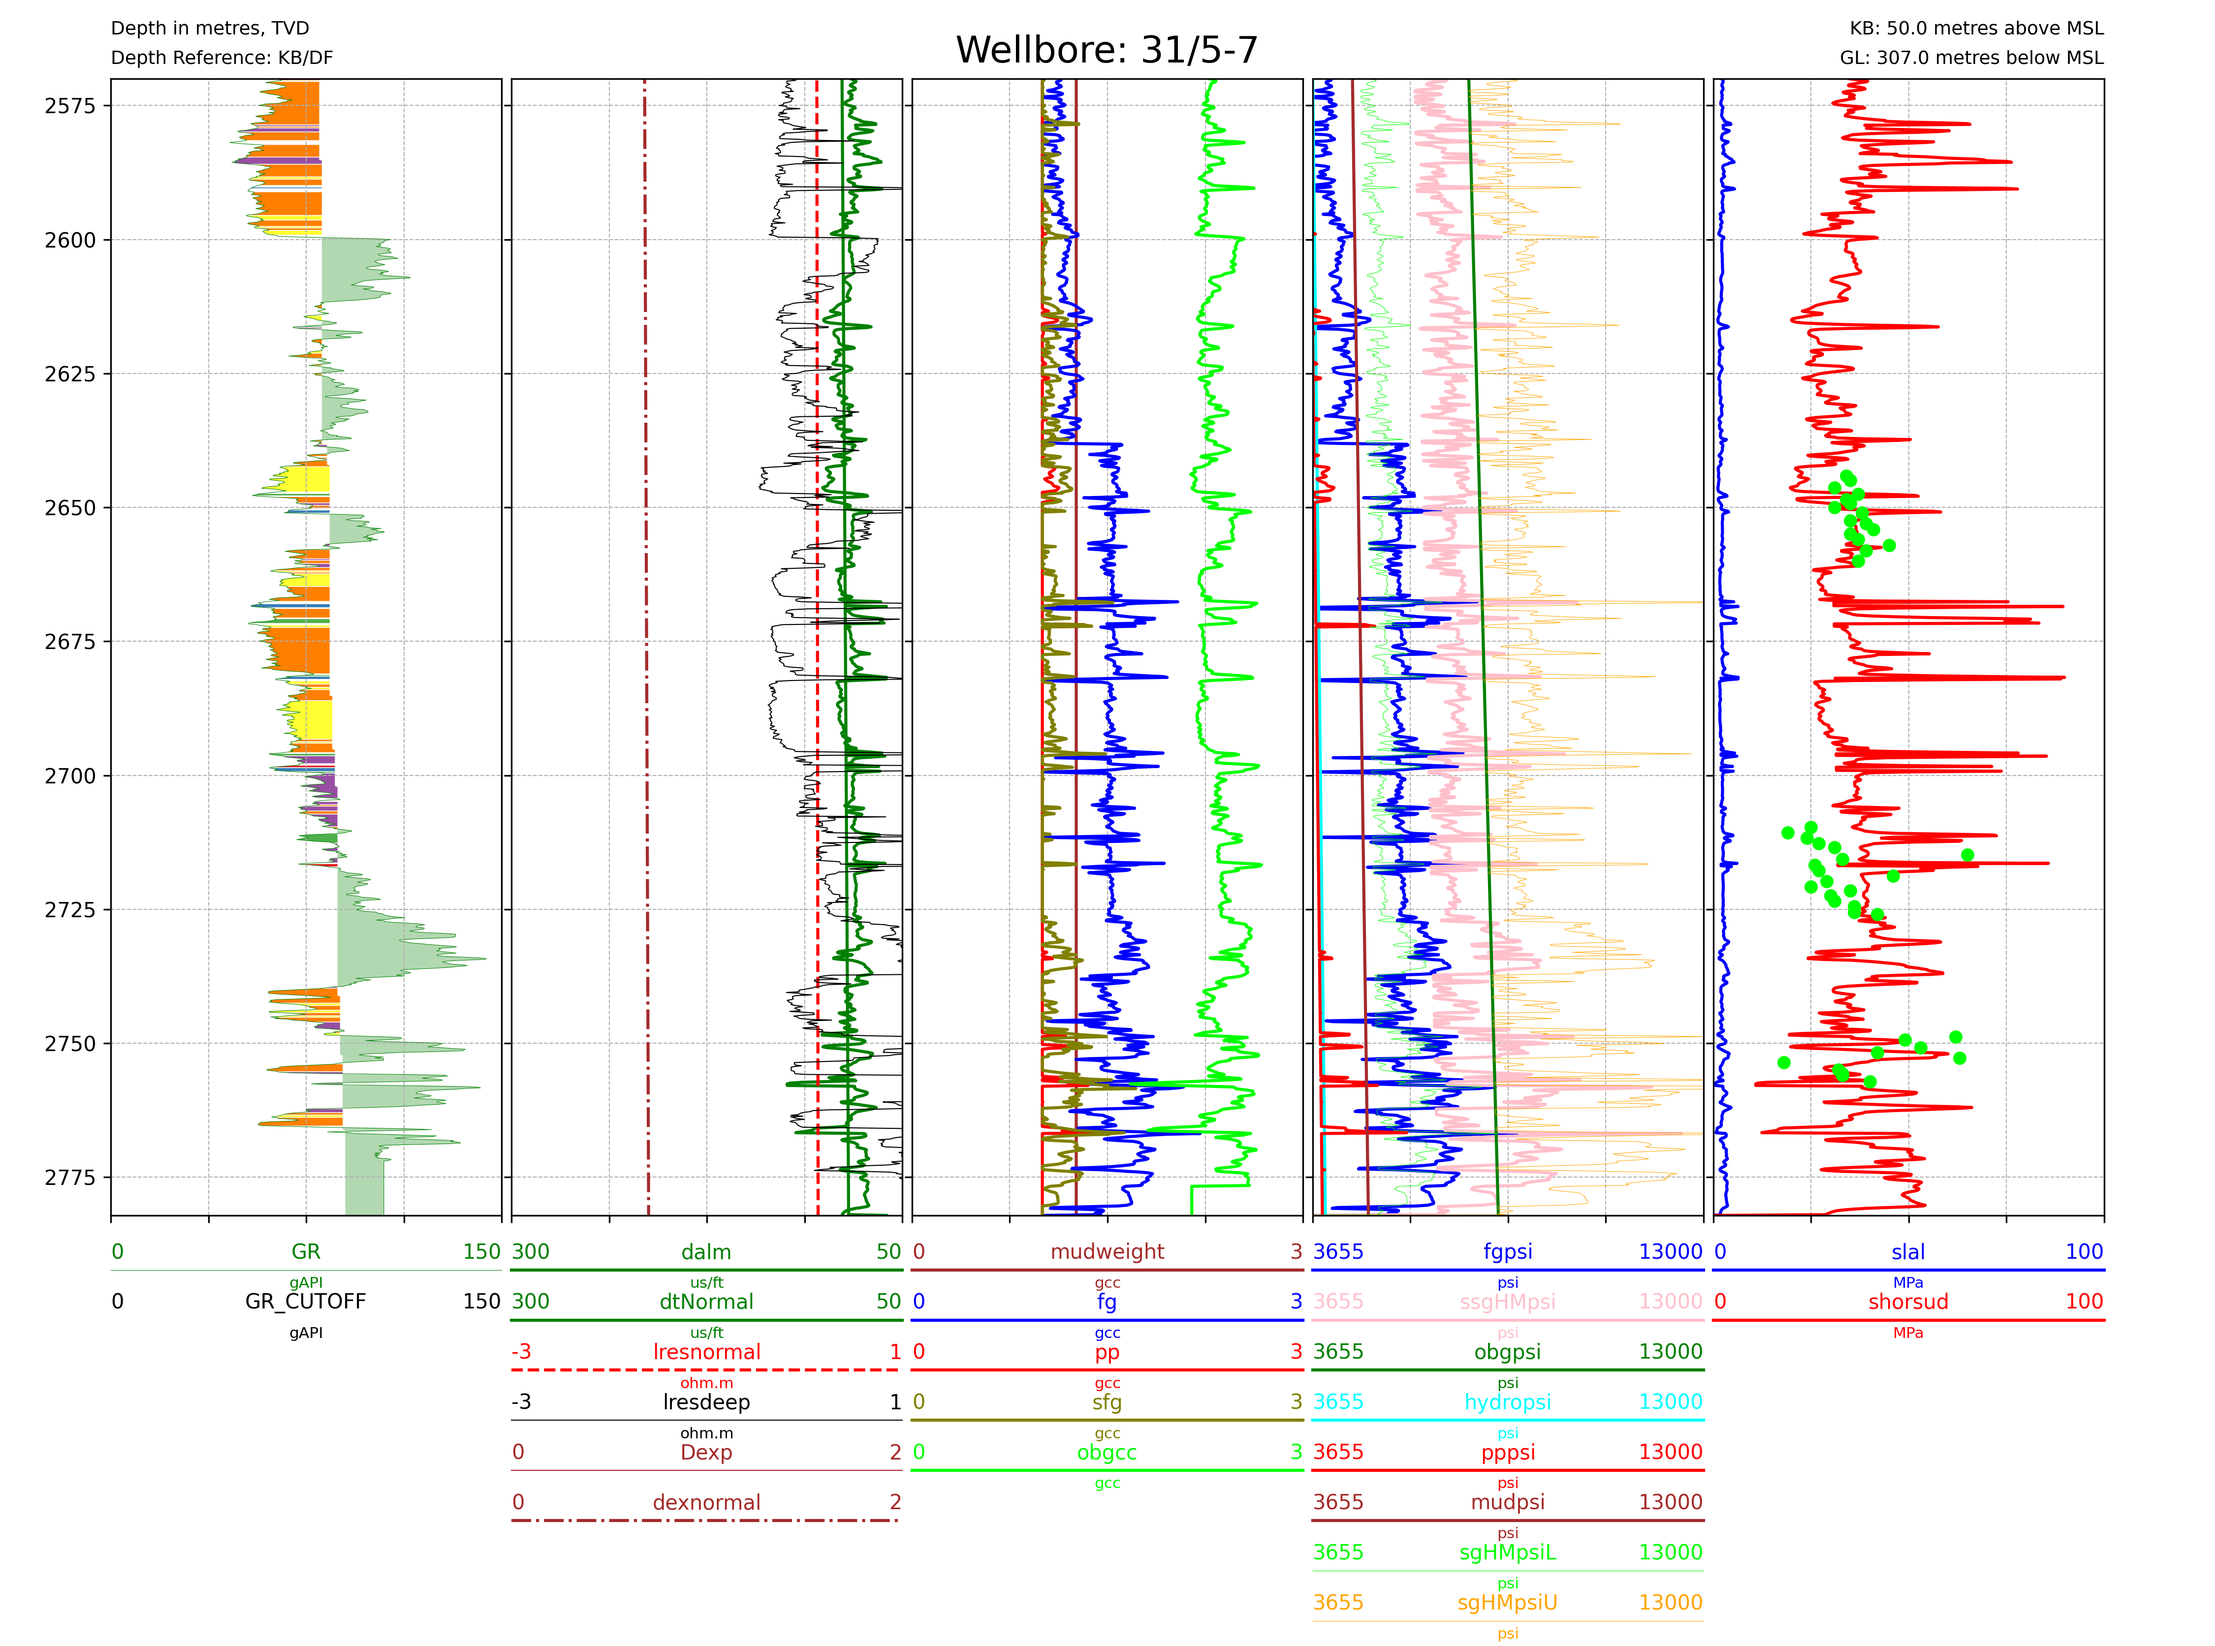
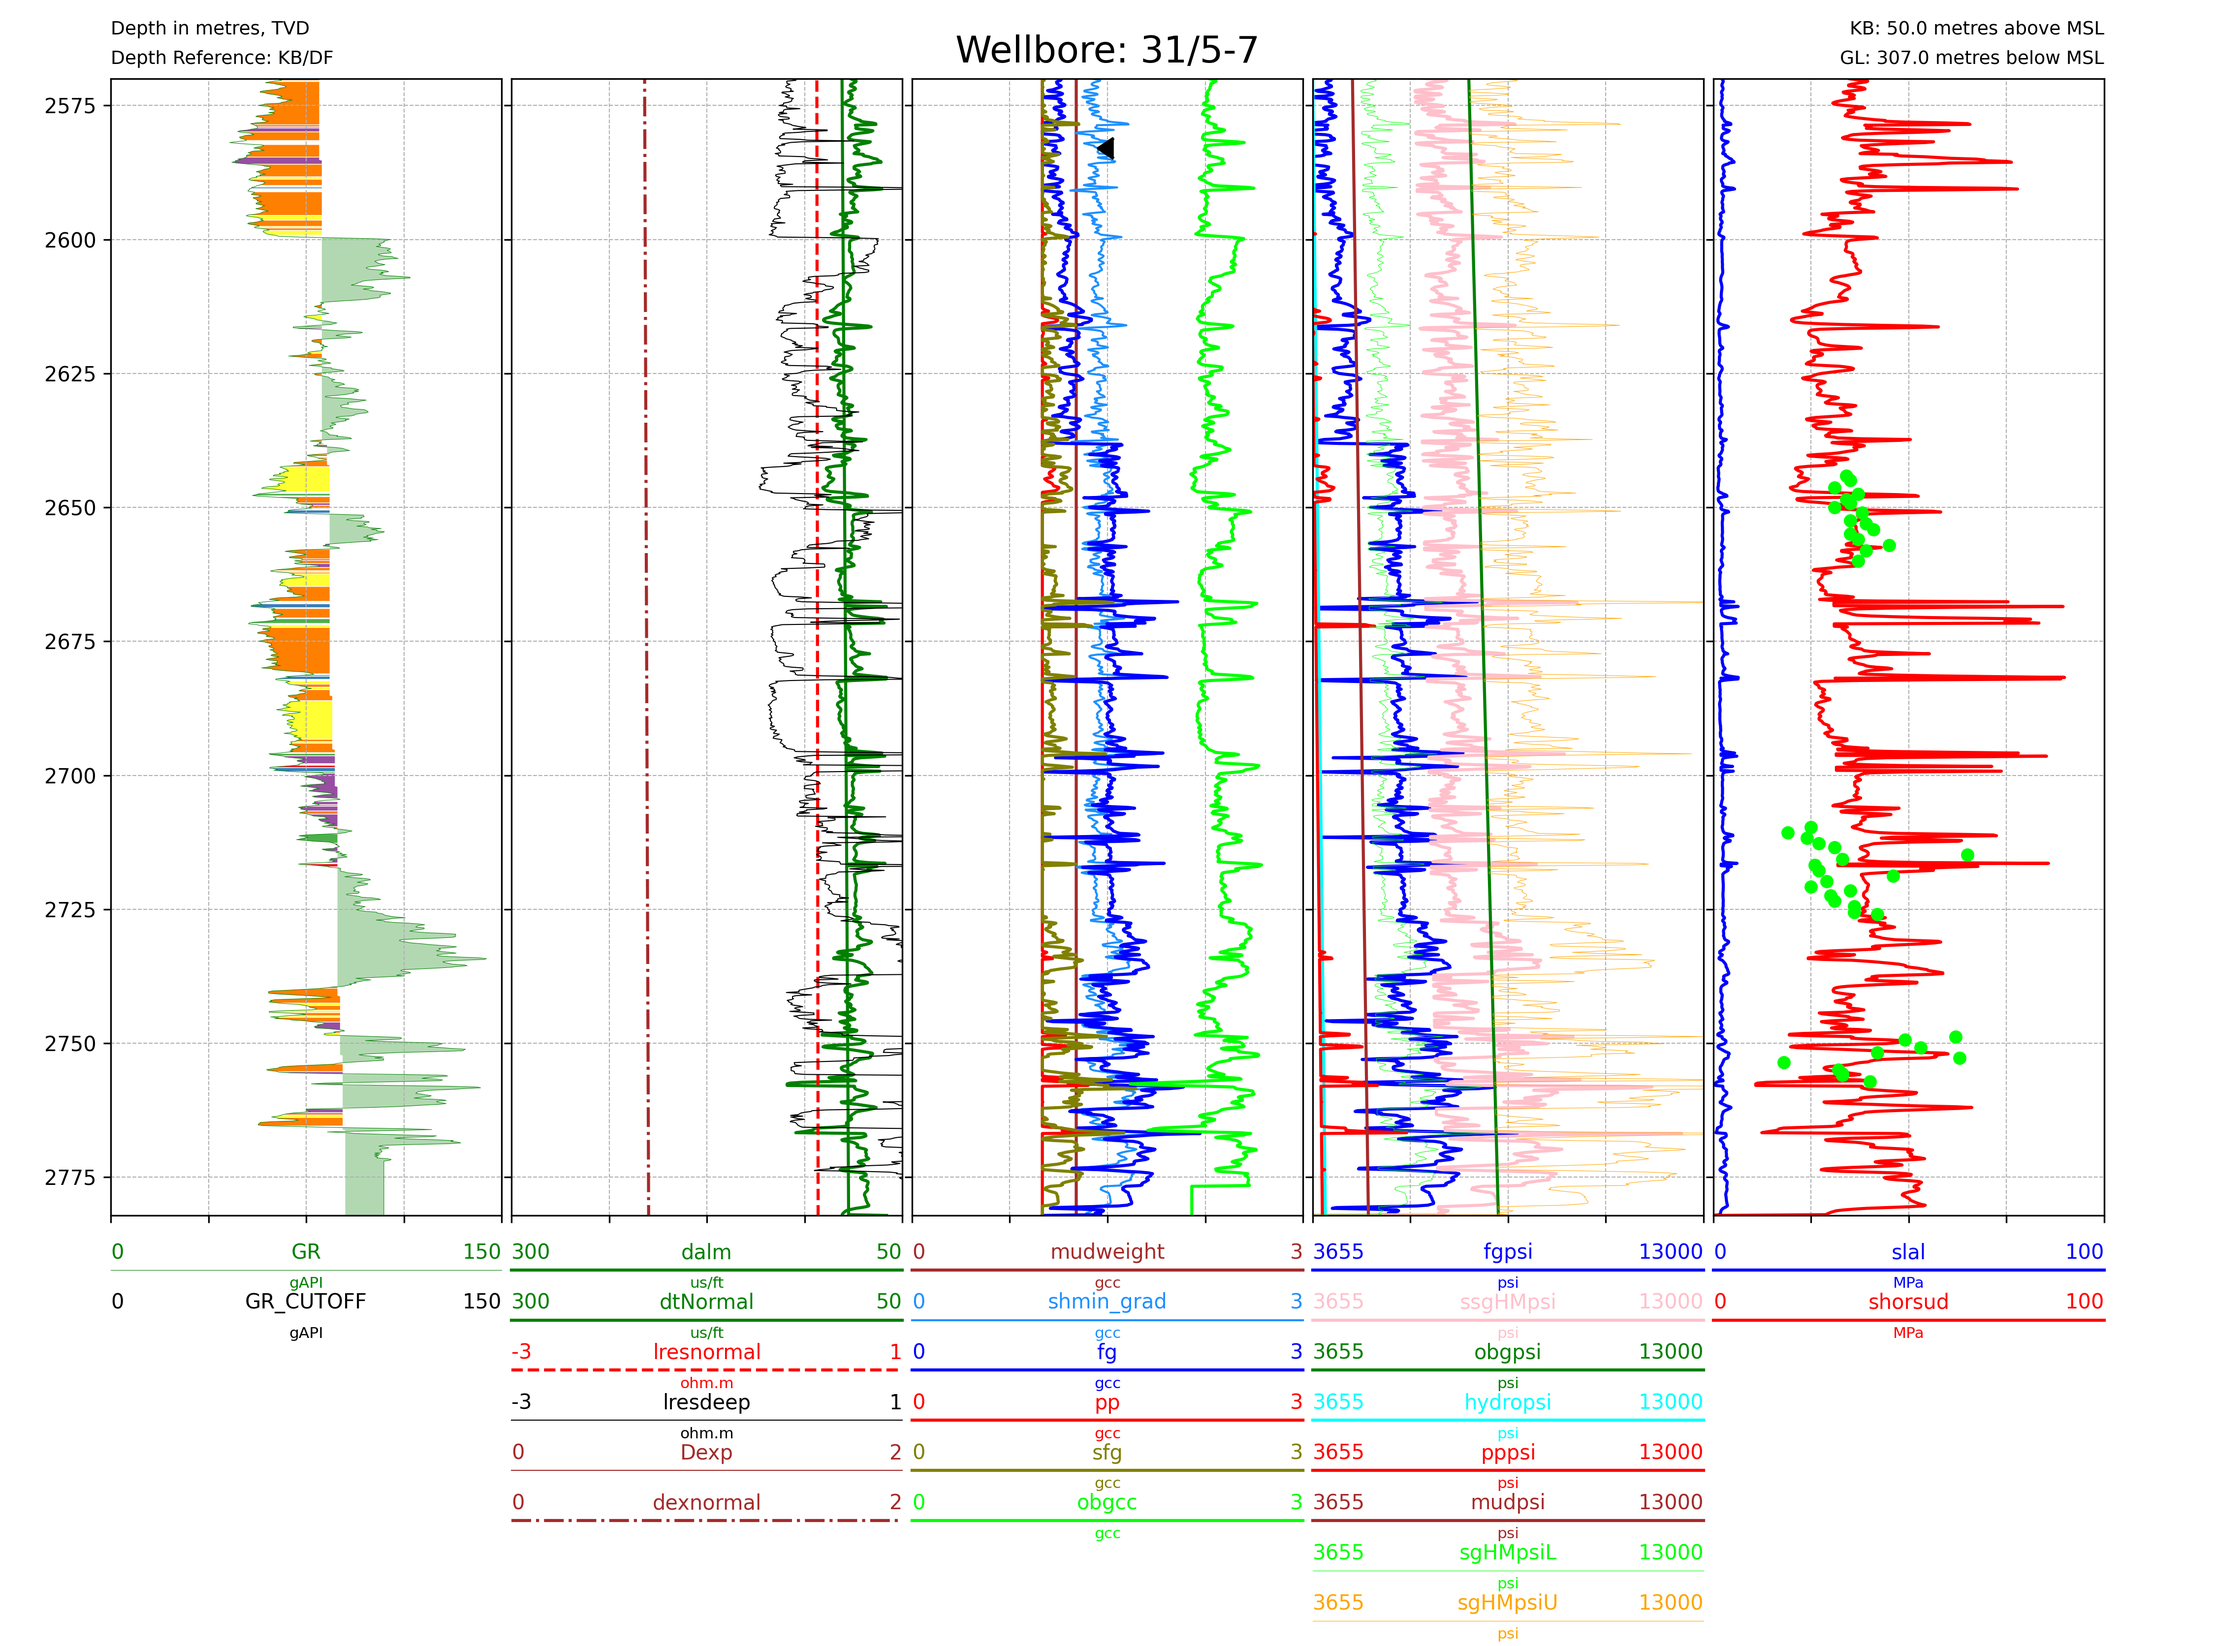
Minor Adjustments

Changed region(s): [[0.4667, 0.7773, 0.5289, 0.9327], [0.4667, 0.0622, 0.4978, 0.1244], [0.4978, 0.5596, 0.5289, 0.5907]]

diff --git a/stresslog/geomechanics.py b/stresslog/geomechanics.py
@@ -292,6 +292,8 @@ def read_styles_from_file(minpressure, maxchartpressure, pressure_units,
             'track': 1, 'left': 300, 'right': 50, 'type': 'linear', 'unit':
             'us/ft'}, 'mudweight': {'color': 'brown', 'linewidth': 1.5,
             'style': '-', 'track': 2, 'left': 0, 'right': 3, 'type':
+            'linear', 'unit': 'gcc'},'shmin_grad': {'color': 'dodgerblue', 'linewidth': 
+            1, 'style': '-', 'track': 2, 'left': 0, 'right': 3, 'type':
             'linear', 'unit': 'gcc'}, 'fg': {'color': 'blue', 'linewidth': 
             1.5, 'style': '-', 'track': 2, 'left': 0, 'right': 3, 'type':
             'linear', 'unit': 'gcc'}, 'pp': {'color': 'red', 'linewidth': 
@@ -368,7 +370,7 @@ def read_pstyles_from_file(minpressure, maxchartpressure, pressure_units,
         with open(file_path, 'r') as file:
             pstyles = json.load(file)
     except:
-        pstyles = {'frac_grad': {'color': 'dodgerblue', 'pointsize': 100,
+        pstyles = {'frac_grad': {'color': 'black', 'pointsize': 100,
             'symbol': 4, 'track': 2, 'left': 0, 'right': 3, 'type':
             'linear', 'unit': 'gcc'}, 'flow_grad': {'color': 'orange',
             'pointsize': 100, 'symbol': 5, 'track': 2, 'left': 0, 'right': 
@@ -2478,7 +2480,7 @@ def compute_geomech(well, rhoappg=16.33, lamb=0.0008, ul_exp=0.0008,
         plt.plot(interpolate_nan(inca), tvd, alpha=0.5, label='inclination')
         plt.plot(-horsud / 10, tvd, alpha=0.5, label='tensile strength')
         plt.plot(tensilefracpsi / 145.038, tvd, label='fracgrad')
-        plt.plot(trufracmpa, tvd, label='trufracgrad')
+        #plt.plot(trufracmpa, tvd, label='trufracgrad')
         plt.plot(np.zeros(len(tvd)), tvd, alpha=0.1)
         plt.gca().invert_yaxis()
         plt.legend()
@@ -2612,7 +2614,7 @@ def compute_geomech(well, rhoappg=16.33, lamb=0.0008, ul_exp=0.0008,
     print(shorsud)"""
     results = pd.DataFrame({'dalm': dalm, 'dtNormal': dtNormal,
         'lresnormal': lresnormal, 'lresdeep': lresdeep, 'Dexp': Dexp,
-        'dexnormal': dexnormal, 'mudweight': mudweight * ureg.gcc, 'fg': 
+        'dexnormal': dexnormal, 'mudweight': mudweight * ureg.gcc, 'shmin_grad':fg.as_numpy() * ureg.gcc,'fg': 
         fg3.as_numpy() * ureg.gcc, 'pp': pp.as_numpy() * ureg.gcc, 'sfg': 
         ladegcc * ureg.gcc, 'obgcc': obgcc.as_numpy() * ureg.gcc, 'fgpsi': 
         fg4.as_numpy() * ureg.psi, 'ssgHMpsi': ssgHMpsi * ureg.psi,
@@ -2642,7 +2644,7 @@ def compute_geomech(well, rhoappg=16.33, lamb=0.0008, ul_exp=0.0008,
             if col in converted_data.columns:
                 converted_data[col] = (converted_data[col].values * ureg.psi
                     ).to(unit_mappings['pressure'][pressure_unit])
-        gradient_columns = ['mudweight', 'fg', 'pp', 'sfg', 'obgcc']
+        gradient_columns = ['mudweight', 'fg', 'pp', 'sfg', 'obgcc', 'shmin_grad']
         for col in gradient_columns:
             if col in converted_data.columns:
                 converted_data[col] = (converted_data[col].values * ureg.gcc

diff --git a/docs/source/Examples.rst b/docs/source/Examples.rst
@@ -10,7 +10,7 @@ Let's do the vertical example first:
     from welly import Well
     import pandas as pd
 
-    # We thank Equinor for making the EOS Northern Lights dataset publicly available.
+    # We thank Equinor for making the Northern Lights Eos dataset publicly available.
     # To obtain your own copy, please follow the guidelines on the Equinor Website
     # The las used here is created by splicing together two dlis files present in the original dataset
 
